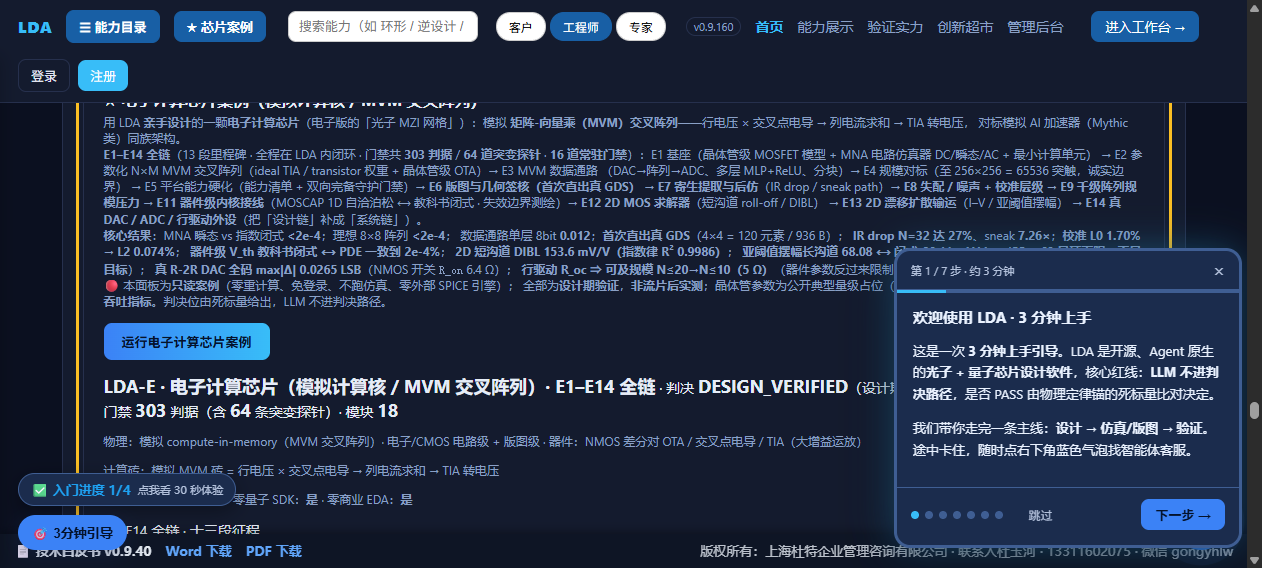
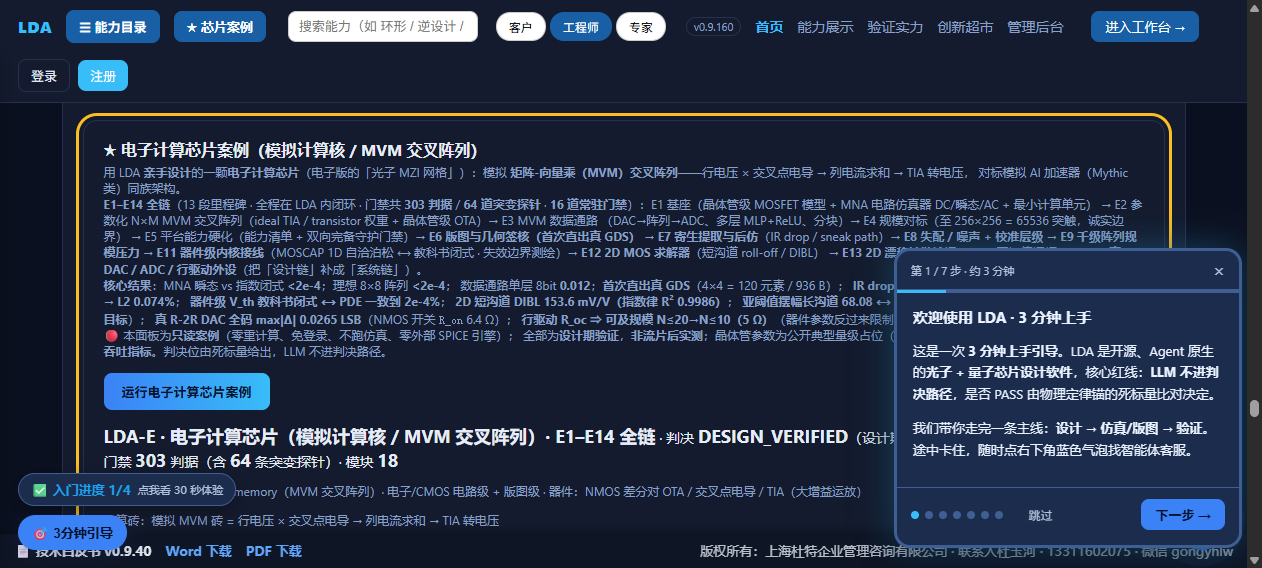
docs(acceptance): 入口可达性上机验收操作卡 + 3 张生产实测截图（v0.9.160）
docs/acceptance/LDA_验收操作卡_入口可达性.html —— 针对用户「反复查也找不到电子计算芯片案例」：
 · 根因说明（先说不是什么：非缓存 / 非部署 / 非权限 / 非功能坏）
 · 三条可达路径（A 首屏★芯片案例直达条 · B ☰ 能力目录抽屉「⑦ 验货」· C 直链 #sec-ecore）
 · 7 项验收清单 + 可选的一条命令行核对 + 对不上时发哪三样
 · 诚实边界（含底部「技术白皮书 v0.9.40」是白皮书自身版本、非笔误的说明）

截图（agent-browser 在生产 https://lda.weomnitech.com.cn 实测）：
 · shotA_home_direct.png —— 首屏：顶部高亮入口 + 第一行「★ 芯片案例直达」四按钮
 · shotB_landed.png —— 点★后落地：#sec-ecore、黄色高亮、标题完整可见（h2Top139 > nav103）、
   摘要显示「E1–E14 全链 · DESIGN_VERIFIED · 征程 13 段 · 303 判据 · 模块 18」
 · shotC_drawer.png —— 能力目录抽屉滚到「⑦ 验货」：末项即「运行电子计算芯片案例」

Changed region(s): [[0.0618, 0.1796, 0.9271, 0.9577], [0.9889, 0.6884, 1.0, 0.7482]]

diff --git a/docs/acceptance/LDA_验收操作卡_入口可达性.html b/docs/acceptance/LDA_验收操作卡_入口可达性.html
@@ -1,0 +1,200 @@
+<!DOCTYPE html>
+<html lang="zh-CN">
+<head>
+<meta charset="utf-8">
+<meta name="viewport" content="width=device-width,initial-scale=1">
+<title>LDA 上机验收操作卡 · 电子计算芯片案例（v0.9.160）</title>
+<style>
+  :root{--bg:#f7f9fc;--card:#fff;--line:#e3e8ef;--txt:#1f2937;--mut:#6b7280;--acc:#185FA5;--warn:#b45309;--ok:#0f6e56}
+  *{box-sizing:border-box}
+  body{margin:0;background:var(--bg);color:var(--txt);font:15px/1.75 -apple-system,"Segoe UI","Microsoft YaHei",sans-serif}
+  .wrap{max-width:980px;margin:0 auto;padding:34px 22px 70px}
+  h1{font-size:25px;margin:0 0 6px}
+  .sub{color:var(--mut);font-size:13px;margin-bottom:26px}
+  h2{font-size:18px;margin:34px 0 12px;padding-left:10px;border-left:4px solid var(--acc)}
+  h3{font-size:15px;margin:20px 0 8px}
+  .card{background:var(--card);border:1px solid var(--line);border-radius:12px;padding:16px 20px;margin:12px 0}
+  .badge{display:inline-block;font-size:12px;padding:2px 9px;border-radius:999px;background:#eef4fb;color:var(--acc);border:1px solid #cfe0f2;margin-right:6px}
+  table{width:100%;border-collapse:collapse;margin:10px 0;font-size:14px;background:var(--card)}
+  th,td{border:1px solid var(--line);padding:8px 10px;text-align:left;vertical-align:top}
+  th{background:#eef4fb;font-weight:600}
+  code{background:#f1f5f9;padding:1px 6px;border-radius:5px;font-size:13px}
+  pre{background:#0e1525;color:#dbe6f5;padding:14px 16px;border-radius:10px;overflow:auto;font-size:13px;line-height:1.6}
+  .step{display:flex;gap:14px;align-items:flex-start;margin:16px 0}
+  .num{flex:0 0 30px;height:30px;border-radius:50%;background:var(--acc);color:#fff;font-weight:700;display:flex;align-items:center;justify-content:center;font-size:14px}
+  .step .body{flex:1}
+  img{max-width:100%;border:1px solid var(--line);border-radius:10px;margin:8px 0}
+  .warn{background:#fffbeb;border:1px solid #fde68a;border-left:4px solid #f59e0b;border-radius:10px;padding:12px 16px;margin:14px 0;font-size:14px}
+  .ok{background:#f0fdf7;border:1px solid #a7e8cf;border-left:4px solid var(--ok);border-radius:10px;padding:12px 16px;margin:14px 0;font-size:14px}
+  .two{display:grid;grid-template-columns:1fr 1fr;gap:14px}
+  @media(max-width:760px){.two{grid-template-columns:1fr}}
+  .foot{color:var(--mut);font-size:12.5px;text-align:center;margin-top:40px;line-height:1.8}
+</style>
+</head>
+<body>
+<div class="wrap">
+
+  <h1>LDA 上机验收操作卡 · 电子计算芯片案例</h1>
+  <div class="sub">
+    版本 <b>v0.9.160</b> · 生产 <code>https://lda.weomnitech.com.cn</code> · 本卡所有路径与截图
+    <b>均为实测</b>（agent-browser 真实打开生产站点逐步骤跑通后截取）
+  </div>
+
+  <div class="ok">
+    <b>一句话结论：</b>「找不到」不是你的问题，也不是缓存 —— 是页面上<strong>三个真实缺陷</strong>叠加所致。
+    本版已全部修复，现在有 <b>3 条路</b>都能一两秒内到达，最快的是首屏第一行那个黄色按钮。
+  </div>
+
+  <h2>一、为什么之前「反复查也找不到」（根因说明）</h2>
+
+  <p>先说<strong>不是什么</strong>：</p>
+  <table>
+    <tr><th style="width:150px">怀疑对象</th><th>实测结论</th></tr>
+    <tr><td>缓存</td><td>不是。生产返回的 HTML 与本地源码 <b>419,869 字节逐字节相同</b>，关键词计数完全一致。</td></tr>
+    <tr><td>部署</td><td>不是。部署校验 <code>HEAD_MATCH=True</code>，案例数据端点 <code>/api/ecore_demo</code> 正常。</td></tr>
+    <tr><td>权限</td><td>不是。案例卡本来就免登录（不在需登录的重计算面板之列）。</td></tr>
+    <tr><td>功能坏了</td><td>不是。案例卡自身门禁 40 项判据全绿，数据正常。</td></tr>
+  </table>
+
+  <p>真正的原因（三个叠加的页面缺陷）：</p>
+  <table>
+    <tr><th style="width:90px">#</th><th>缺陷</th><th>实测证据</th></tr>
+    <tr>
+      <td>①</td>
+      <td><b>入口叫「目录」</b><br>唯一的能力清单入口，按钮上只有「目录」两个字，看不出里面有「芯片案例」</td>
+      <td>该按钮由页面脚本注入，原文是 <code>&lt;button id="wbMenuBtn"&gt;目录&lt;/button&gt;</code></td>
+    </tr>
+    <tr>
+      <td>②</td>
+      <td><b>点开了也被自家浮层压住</b><br>抽屉层级只有 999，而页面自己注入的「💬 客服 / ✅ 入门进度 / 🎯 3分钟引导 / 3分钟上手」浮层层级高达 <b>21.47 亿</b></td>
+      <td>在抽屉区域内取「最上层元素」，命中的是<strong>浮层而不是抽屉</strong> ⇒ 看起来像「打不开 / 没反应」</td>
+    </tr>
+    <tr>
+      <td>③</td>
+      <td><b>卡片埋在 48 屏处且没有入口</b><br>4 张芯片案例卡在页面很靠下的位置</td>
+      <td><code>#sec-ecore</code> 实测在 <b>26,872 px</b>，整页 <b>27,423 px</b>；全页 <b>0 个</b>指向这些卡片的首屏入口</td>
+    </tr>
+  </table>
+
+  <h2>二、现在怎么找（三条路，任选一条）</h2>
+
+  <h3>路径 A · 首屏直达（最快，推荐）</h3>
+  <div class="step">
+    <div class="num">1</div>
+    <div class="body">
+      浏览器打开 <code>https://lda.weomnitech.com.cn</code>
+      <br>（<b>不需要登录</b>；案例卡是公开只读的）
+    </div>
+  </div>
+  <div class="step">
+    <div class="num">2</div>
+    <div class="body">
+      <b>看页面第一行</b>，有一排彩色按钮：<br>
+      <span class="badge" style="background:#0f6e56;color:#eafff7;border-color:#0f6e56">光量子计算芯片</span>
+      <span class="badge" style="background:#0f6e56;color:#eafff7;border-color:#0f6e56">超导量子计算芯片</span>
+      <span class="badge" style="background:#0f6e56;color:#eafff7;border-color:#0f6e56">光计算芯片</span>
+      <span class="badge" style="background:#fbbf24;color:#1a1205;border-color:#fbbf24;font-weight:700">★ 电子计算芯片（E1–E14）</span>
+    </div>
+  </div>
+  <div class="step">
+    <div class="num">3</div>
+    <div class="body">
+      点最右边那个<b>黄色的「★ 电子计算芯片（E1–E14）」</b> —— 页面会<b>自动跳到卡片、黄色描边高亮、并自动跑出结果</b>。
+    </div>
+  </div>
+  <img src="shotA_home_direct.png" alt="首屏：顶部高亮入口 + 第一行芯片案例直达条">
+  <div class="sub" style="margin-top:-4px">↑ 首屏实拍：顶部导航的蓝色「☰ 能力目录」「★ 芯片案例」，与页面第一行的「★ 芯片案例直达」条</div>
+
+  <div class="warn">
+    <b>两个可能挡住你的小东西（都不是 bug，点掉即可）：</b><br>
+    ① 右下角会弹「欢迎使用 LDA · 3 分钟上手」引导卡片 —— 点它的 <b>「跳过」</b>；<br>
+    ② 左下角有「✅ 入门进度 0/4」「🎯 3分钟引导」两个小浮标 —— 不碍事，可以不管。
+  </div>
+
+  <h3>路径 B · 能力目录抽屉（想浏览/搜索所有能力时用）</h3>
+  <div class="step">
+    <div class="num">1</div>
+    <div class="body">点顶部导航栏最左边那个<b>蓝色的「☰ 能力目录」</b>按钮（就在 LDA 标志右边）。</div>
+  </div>
+  <div class="step">
+    <div class="num">2</div>
+    <div class="body">
+      左侧滑出抽屉，按 <b>7 个阶段</b>分组列出全部 <b>64 个能力</b>。把抽屉<b>滚到最底部</b>，看
+      <b>「⑦ 验货」</b>这一组 —— 里面有：运行光量子芯片案例 / 运行超导芯片案例 / 运行光计算芯片案例 /
+      <b>运行电子计算芯片案例</b>。
+    </div>
+  </div>
+  <img src="shotC_drawer.png" alt="能力目录抽屉：⑦ 验货 组里的「运行电子计算芯片案例」">
+  <div class="sub" style="margin-top:-4px">↑ 抽屉实拍：⑥ 流片交付 → ⑦ 验货（8 项），最后一项即「运行电子计算芯片案例」</div>
+  <p style="font-size:14px">
+    抽屉顶部还有<b>搜索框</b>（可搜「电子 / 环形 / 逆设计 / DRC」）和<b>角色切换</b>（客户 / 工程师 / 专家）。
+  </p>
+
+  <h3>路径 C · 直接粘网址（最省事）</h3>
+  <pre>https://lda.weomnitech.com.cn/#sec-ecore</pre>
+  <p style="font-size:14px">
+    粘进地址栏回车即可。锚点落地后会<b>黄色描边高亮</b>，并<b>自动运行一次案例</b>。
+    （其余三张卡同理：<code>#sec-qchip</code> 光量子 · <code>#sec-schip</code> 超导 · <code>#sec-pchip</code> 光计算）
+  </p>
+
+  <h2>三、验收清单（点完之后逐项核对）</h2>
+  <img src="shotB_landed.png" alt="落地后的电子计算芯片案例卡片与摘要">
+  <table>
+    <tr><th style="width:46px">#</th><th style="width:250px">看哪里</th><th>应该看到</th></tr>
+    <tr><td>1</td><td>页面顶部最右</td><td>版本号 <b>v0.9.160</b></td></tr>
+    <tr><td>2</td><td>首屏第一行</td><td>「★ 芯片案例直达：…」四个彩色按钮，含黄色的<b>「★ 电子计算芯片（E1–E14）」</b></td></tr>
+    <tr><td>3</td><td>点完之后卡片顶部</td><td>标题「<b>★ 电子计算芯片案例（模拟计算核 / MVM 交叉阵列）</b>」完整可见（不被顶部导航压住）</td></tr>
+    <tr><td>4</td><td>卡片边框</td><td>一圈<b>黄色描边</b>（表示你就是从入口跳过来的）</td></tr>
+    <tr><td>5</td><td>蓝色摘要行</td><td>判决 <b>DESIGN_VERIFIED</b>（设计期验证）· 征程 <b>13 段</b> · 门禁 <b>303 判据</b>（含 64 探针）· 模块 <b>18</b></td></tr>
+    <tr><td>6</td><td>卡片正文（hint）</td><td><b>E1–E14 全链</b> → 最后一项是 <b>E14 真 DAC / ADC / 行驱动外设</b></td></tr>
+    <tr><td>7</td><td>页面下半（继续滚）</td><td>能展开看到 E1–E14 的分段结果表、诚实边界表</td></tr>
+  </table>
+
+  <h3>可选：不想点页面，用一条命令核对</h3>
+  <p style="font-size:14px">把下面整段粘进 Windows 终端（PowerShell），会打印案例卡的关键字段：</p>
+  <pre>$r = Invoke-RestMethod https://lda.weomnitech.com.cn/api/ecore_demo
+"case_id : " + $r.case_id
+"span    : 段=$($r.span.gate_checks) 判据 探针=$($r.span.probe_checks) 模块=$($r.span.modules)"
+"verdict : " + $r.verdict
+"gaps    : " + $r.gaps_total + " 条（末条 = " + $r.gaps[-1].id + "）"</pre>
+  <p style="font-size:14px">预期输出要点：<code>case_id</code> 含 <b>E1–E14 全链</b>；<code>verdict</code> = <b>DESIGN_VERIFIED</b>；
+  <code>span</code> 里 <b>gate_checks=303</b>、<b>probe_checks=64</b>、<b>modules=18</b>；<code>gaps</code> = <b>14</b> 条。</p>
+
+  <h2>四、对不上时，请发我这三样</h2>
+  <table>
+    <tr><th style="width:120px">要什么</th><th>怎么拿</th></tr>
+    <tr><td>① 页面地址</td><td>直接从浏览器地址栏整条复制（含 <code>#...</code> 部分）</td></tr>
+    <tr><td>② 版本号</td><td>页面右上角那串 <code>v0.9.xxx</code>（一句话截图即可）</td></tr>
+    <tr><td>③ 截图</td><td>你看到的那一屏——尤其「第一行为空 / 按钮颜色不对 / 点了没反应」这三种情况</td></tr>
+  </table>
+  <p style="font-size:14px">
+    如果三样都符合预期却仍然找不到，请告诉我<b>浏览器与缩放比例</b>（例如「豆包浏览器 125% 缩放」）——
+    本卡已按窄视口（窗口较小时顶部导航会换行）实测过，但不同缩放可能还有边界情况，
+    我会按你给的信息补测并加固。
+  </p>
+
+  <h2>五、诚实边界</h2>
+  <div class="card" style="font-size:14px">
+    <p style="margin:0 0 8px">
+      ① 本卡是<b>设计期验证</b>的操作验收，<b>不是流片后实测</b>；
+      ② 案例卡为<b>公开只读 · 零重计算 · 免登录</b>（它不进重计算面板的登录闸门）；
+      ③ 本次修复的是<b>页面入口可达性</b>，<b>未改动任何求解器能力、未动锚账本</b>
+      （锚仍 476 道、CI core 由 253 增至 254 是因为新增了这道入口门禁）；
+      ④ 新增常驻门禁 <code>run_webui_entry_smoke.py</code>（18 判据 + 5 突变探针）——
+      以后若有人把入口改名回「目录」、把抽屉层级降回去、或删掉首屏直达，门禁会当场变红。
+    </p>
+    <p style="margin:0">
+      ⑤ 底部版权条仍显示「技术白皮书 v0.9.40」—— 这是<b>白皮书文件自己的版本</b>
+      （<code>static/</code> 内实际文件即 <code>lda_whitepaper_v0.9.40.docx/pdf</code>），
+      与平台版本号 <code>v0.9.160</code> 是两回事，非笔误；若需统一口径请告知。
+    </p>
+  </div>
+
+  <div class="foot">
+    LDA · 开源 Agent-native 光 / 量 / 电子 EDA（MIT）<br>
+    上机验收操作卡 · 入口可达性修复（v0.9.160）· 本卡路径与截图均为生产实测
+  </div>
+
+</div>
+</body>
+</html>
